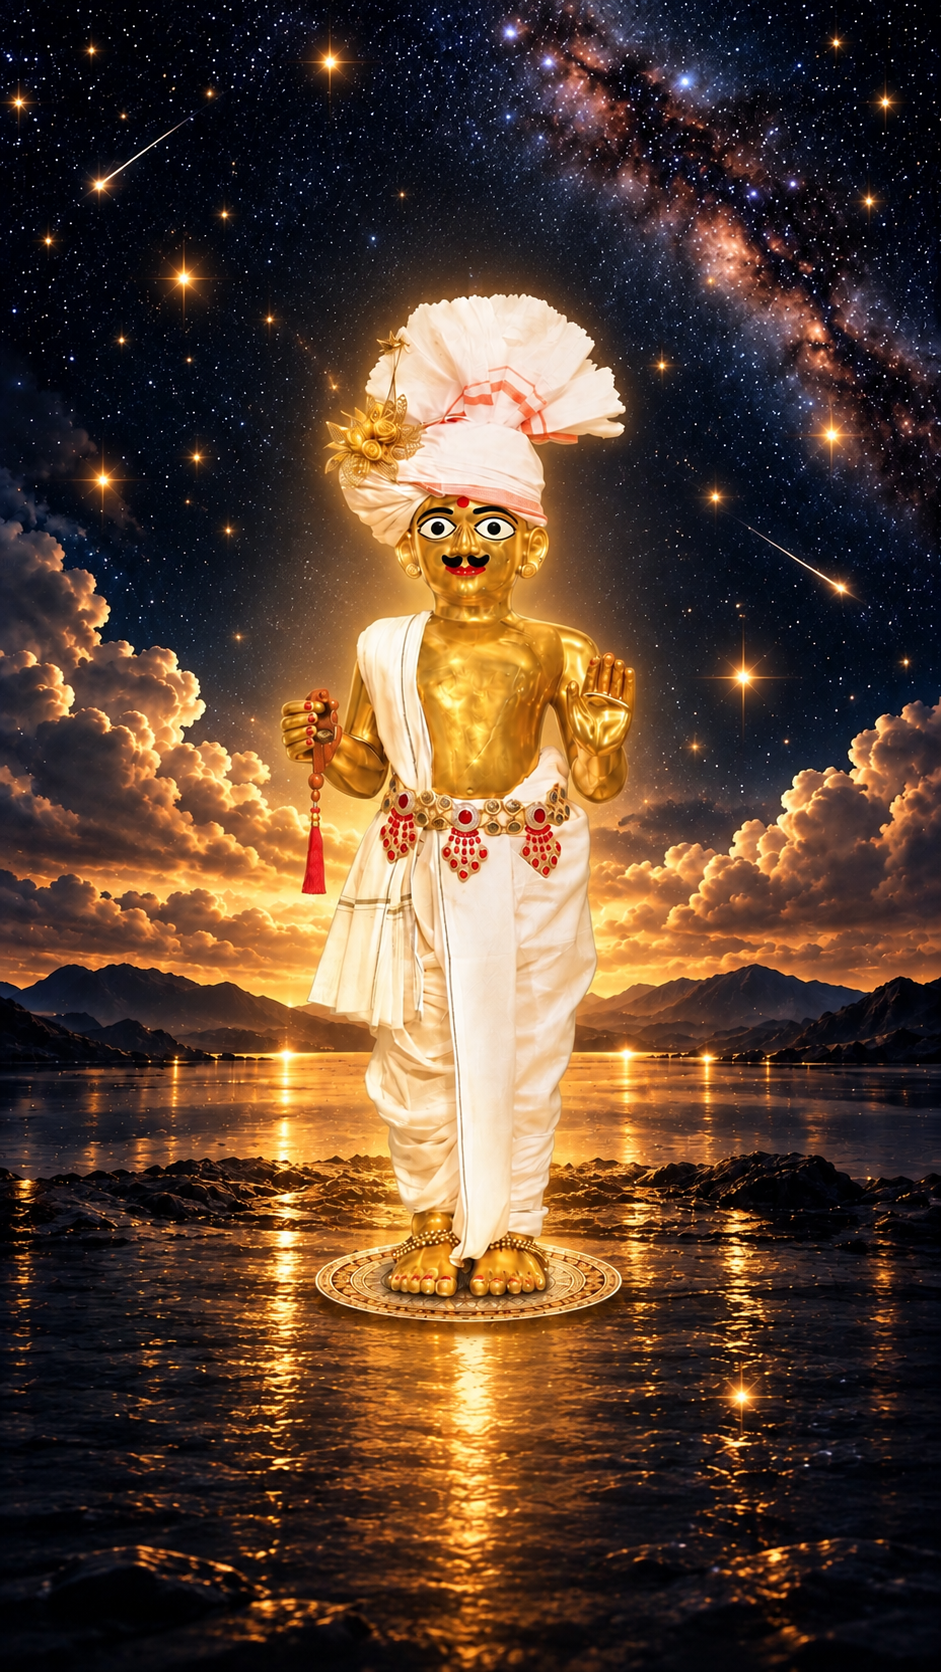
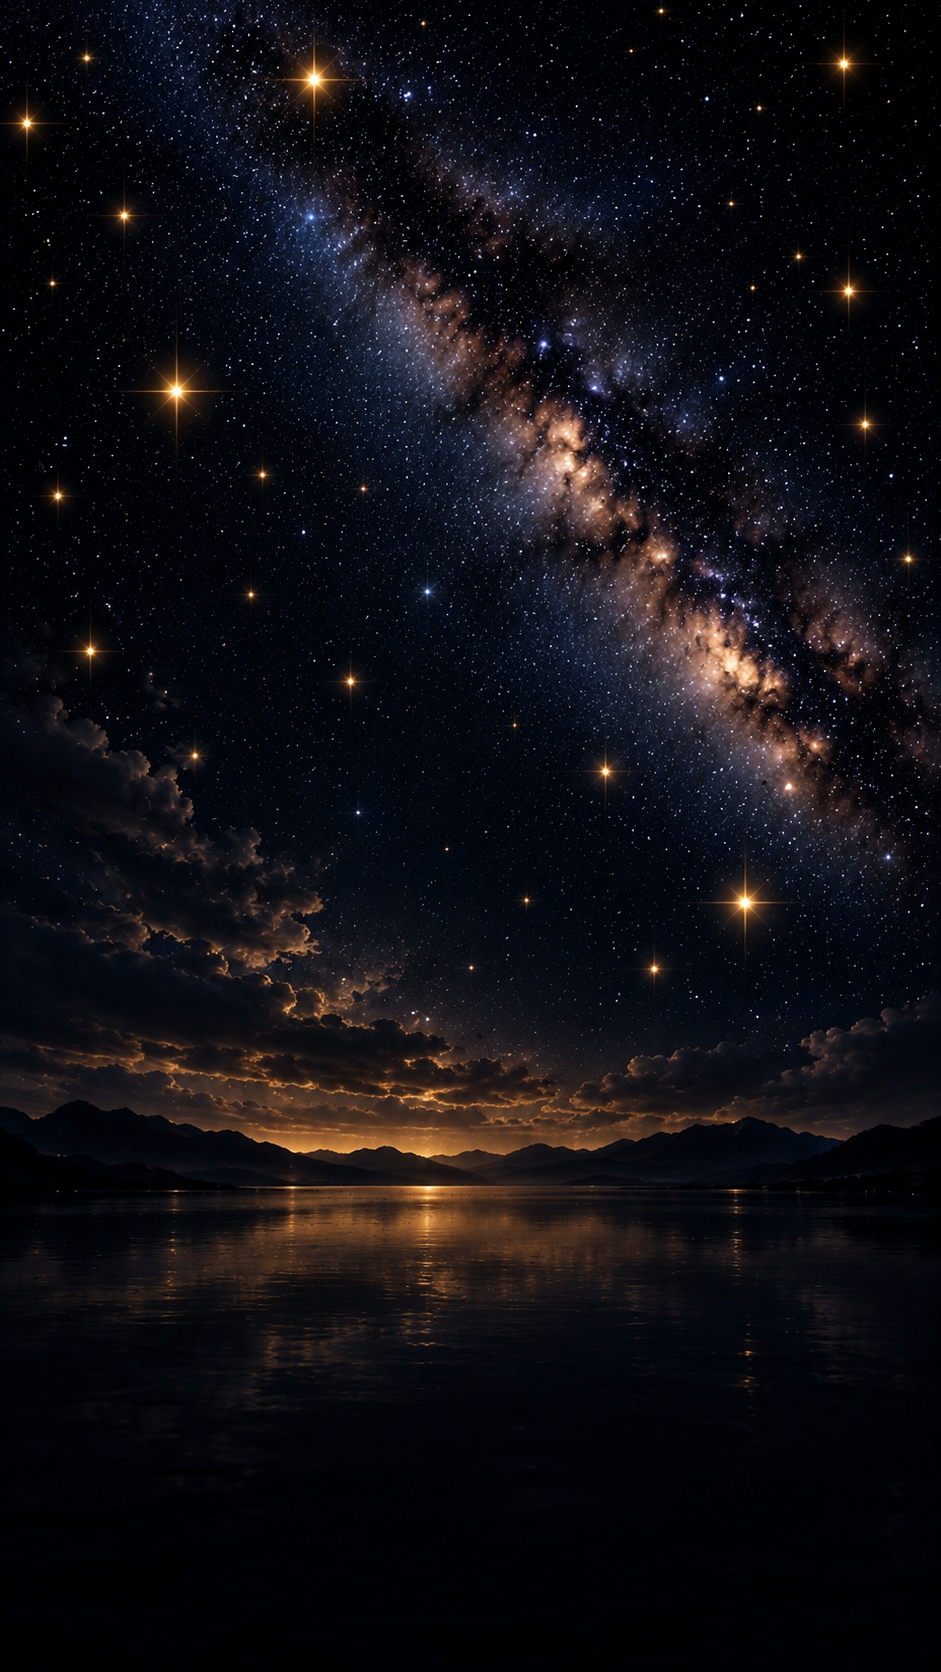
feat(web): refined dark mode — solid layered surfaces instead of glass, hairline edges, frosted bars, white accents; new blurred night-sky background

diff --git a/www/css/styles.css b/www/css/styles.css
@@ -7659,3 +7659,295 @@ html.dark .setup-icon {
 html.dark .setup-logo {
     filter: drop-shadow(0 4px 12px rgba(0, 0, 0, 0.6));
 }
+
+/* ===========================================================
+   Dark, refined: solid layered surfaces instead of glass. One hairline edge everywhere
+   (no specular rims or glows), three surface levels, and frosted (not refracting) bars.
+     page      #000 (home keeps the night-sky image)
+     surface   #161618   cards, sheets, groups
+     raised    #222225   controls on cards: chips, segments, buttons, inputs
+   =========================================================== */
+html.dark {
+    --glass-rim: inset 0 0 0 1px rgba(255, 255, 255, 0.07);
+    --d-surface: rgba(22, 22, 26, 0.8); /* lets the blurred night sky tint through */
+    --d-surface-2: #161618;
+    --d-raised: #222225;
+    --d-selected: #3A3A3E;
+    --d-line: rgba(255, 255, 255, 0.07);
+}
+
+/* Cards and sheets: one solid surface, hairline edge, soft shadow */
+html.dark .chapter-tile,
+html.dark .vachanamrut-tile,
+html.dark .sloka-card,
+html.dark .section-header-card,
+html.dark .fav-card,
+html.dark .search-card,
+html.dark #sloka-content,
+html.dark .glass-card.journey-page-card,
+html.dark #vachanamrut-card.glass-card,
+html.dark .chapter-tile:hover,
+html.dark .vachanamrut-tile:hover,
+html.dark .sloka-card:hover {
+    background: var(--d-surface);
+    border: 1px solid var(--d-line);
+    box-shadow: 0 8px 24px rgba(0, 0, 0, 0.45);
+    -webkit-backdrop-filter: none;
+    backdrop-filter: none;
+}
+
+html.dark .chapter-tile::before,
+html.dark .sloka-card::before {
+    display: none;
+}
+
+/* Groups inside a page card sit one level up */
+html.dark .settings-page-card .settings-group,
+html.dark #journey-screen .journey-progress-card,
+html.dark #journey-screen .journey-streak-card,
+html.dark #journey-screen .journey-chip,
+html.dark #journey-screen .journey-milestones,
+html.dark #journey-screen .journey-map-cell,
+html.dark #journey-screen .journey-reset-link,
+html.dark #journey-screen .fav-card,
+html.dark #journey-screen .my-note,
+html.dark .search-card .search-result,
+html.dark .search-glossary-card,
+html.dark .fact-row,
+html.dark .facts-xref,
+html.dark .facts-glossary-card,
+html.dark .word-meaning-box,
+html.dark .setup-option,
+html.dark .setup-preview {
+    background: var(--d-raised);
+    border: none;
+    box-shadow: none;
+    -webkit-backdrop-filter: none;
+    backdrop-filter: none;
+}
+
+html.dark .glass-card.journey-page-card {
+    background: rgba(12, 12, 13, 0.92);
+}
+
+/* Segmented controls and pills: a raised track, the chosen option a lighter chip */
+html.dark .hub-tabs,
+html.dark .settings-page-card .settings-segmented,
+html.dark .search-header .search-scope,
+html.dark .header-lang-switch {
+    background: var(--d-raised);
+    border: none;
+    box-shadow: none;
+    -webkit-backdrop-filter: none;
+    backdrop-filter: none;
+}
+
+html.dark .hub-tab.active,
+html.dark .search-header .search-scope-btn.active,
+html.dark .header-lang-switch .lang-btn.active,
+html.dark[data-appearance] body.gujarati #settings-lang-guj,
+html.dark[data-appearance] body.english #settings-lang-eng,
+html.dark:not(.text-large) #settings-text-default,
+html.dark.text-large #settings-text-large,
+html.dark body:not(.ui-english) #settings-ui-auto,
+html.dark body.ui-english #settings-ui-eng,
+html.dark[data-appearance="system"] #settings-appearance-system,
+html.dark[data-appearance="dark"] #settings-appearance-dark,
+html.dark .setup-choice-btn.active {
+    background: var(--d-selected);
+    color: #FFFFFF;
+    box-shadow: 0 1px 3px rgba(0, 0, 0, 0.4);
+}
+
+html.dark .header-lang-switch .lang-btn.active {
+    color: #FF6B72;
+}
+
+/* Small buttons and inputs */
+html.dark #back-btn,
+html.dark .toolbar-btn,
+html.dark .facts-pill,
+html.dark .font-size-display,
+html.dark .sp-bookmark-btn,
+html.dark .facts-modal-close,
+html.dark .word-meaning-pill,
+html.dark .word-meaning-view-all-btn,
+html.dark .facts-questioner-chip,
+html.dark .search-chip,
+html.dark .search-header .search-input-wrap,
+html.dark .note-sheet-text,
+html.dark .note-sheet-btn:not(.primary),
+html.dark .reminder-time,
+html.dark .setup-choice-btn,
+html.dark .setup-secondary,
+html.dark .chapter-count,
+html.dark .section-count {
+    background: var(--d-raised);
+    border: none;
+    box-shadow: none;
+    -webkit-backdrop-filter: none;
+    backdrop-filter: none;
+}
+
+html.dark .settings-page-card .settings-group .reminder-time,
+html.dark .fact-row .facts-questioner-chip {
+    background: var(--d-selected);
+}
+
+/* Sheets */
+html.dark .facts-modal.glass-card:not(.theme-sepia),
+html.dark .note-sheet,
+html.dark .setup-sheet {
+    background: #161618;
+    box-shadow: 0 -12px 40px rgba(0, 0, 0, 0.6);
+}
+
+html.dark .facts-modal::before {
+    background: rgba(255, 255, 255, 0.25);
+}
+
+/* Header and floating bars: frosted near-black, no refraction or rims */
+html.dark header#header,
+html.dark body > header,
+html.dark .search-header {
+    background: #000000;
+    box-shadow: 0 1px 0 rgba(255, 255, 255, 0.07);
+}
+
+html.dark #footer.app-tab-bar,
+html.dark .reading-footer,
+html.dark .find-bar,
+html.dark .audio-player-container.state-bar,
+html.dark .audio-fab-view {
+    background: rgba(22, 22, 24, 0.86);
+    -webkit-backdrop-filter: blur(20px) saturate(1.3);
+    backdrop-filter: blur(20px) saturate(1.3);
+    box-shadow: inset 0 0 0 1px rgba(255, 255, 255, 0.08), 0 10px 30px rgba(0, 0, 0, 0.55);
+}
+
+html.dark .tab-bar-rim-light {
+    stroke: rgba(255, 255, 255, 0.08);
+    stroke-width: 1;
+}
+
+html.dark .tab-bar-rim-edge {
+    stroke: none;
+}
+
+html.dark .footer-search-btn,
+html.dark .reading-footer .nav-btn,
+html.dark .audio-player-container .audio-bar-btn,
+html.dark .audio-player-container .audio-bar-btn.play-btn {
+    background: var(--d-raised);
+    box-shadow: none;
+}
+
+html.dark .audio-player-container .audio-bar-btn.play-btn {
+    background: var(--d-selected);
+}
+
+html.dark .tab-bar-drop {
+    background: var(--d-raised);
+    box-shadow: none;
+}
+
+html.dark .footer-search-btn.ripple::after {
+    animation-name: lens-ripple-dark;
+}
+
+@keyframes lens-ripple-dark {
+    0% { opacity: 0.9; box-shadow: 0 0 0 0 rgba(255, 255, 255, 0.35); }
+    100% { opacity: 0; box-shadow: 0 0 0 6px rgba(255, 255, 255, 0); }
+}
+
+/* Separators and secondary text */
+html.dark .settings-page-card .settings-group > * + .setting-item::before {
+    background-color: var(--d-line);
+}
+
+html.dark .facts-modal.glass-card .facts-modal-header {
+    background: transparent;
+    border-bottom: 1px solid var(--d-line);
+}
+
+/* Big background numbers: quieter */
+html.dark .chapter-tile::after,
+html.dark .vachanamrut-tile::after,
+html.dark .sloka-card::after {
+    background: linear-gradient(180deg, rgba(255, 255, 255, 0.13) 10%, rgba(255, 255, 255, 0.01) 88%);
+    -webkit-background-clip: text;
+    background-clip: text;
+}
+
+html.dark .settings-page-card .settings-group .settings-segmented {
+    background: rgba(0, 0, 0, 0.4);
+}
+
+/* Dark app: the reading card's dark theme uses white accents instead of gold */
+html.dark #vachanamrut-card.theme-dark h3,
+html.dark #vachanamrut-card.theme-dark .v-number,
+html.dark #vachanamrut-card.theme-dark .v-title-text,
+html.dark #vachanamrut-card.theme-dark .icon-btn,
+html.dark #vachanamrut-card.theme-dark #vachanamrut-footer-text,
+html.dark #vachanamrut-card.theme-dark .toolbar-btn,
+html.dark #vachanamrut-card.theme-dark .bookmark-pill {
+    color: #FFFFFF !important;
+}
+
+html.dark #vachanamrut-card.theme-dark #vachanamrut-text {
+    color: #E8E8EA;
+}
+
+html.dark #vachanamrut-card.theme-dark #vachanamrut-setting {
+    background: var(--d-raised);
+    border-left-color: rgba(255, 255, 255, 0.3);
+    color: #C7C7CC;
+}
+
+html.dark #vachanamrut-card.theme-dark .font-controls,
+html.dark #vachanamrut-card.theme-dark .theme-controls,
+html.dark #vachanamrut-card.theme-dark .bookmark-pill {
+    background: var(--d-raised);
+    border-color: transparent;
+}
+
+html.dark #vachanamrut-card.theme-dark .bookmark-pill.active {
+    background: #FFFFFF;
+    color: #000000 !important;
+}
+
+html.dark #vachanamrut-card.theme-dark .glossary-word-link {
+    border-bottom-color: rgba(255, 255, 255, 0.45);
+}
+
+/* Muted text in dark: neutral grey instead of the light theme's purple */
+html.dark .facts-modal-subtitle,
+html.dark .fact-label,
+html.dark .fact-value .fact-secondary,
+html.dark .author-dates,
+html.dark .about-vachanamrut-source,
+html.dark .facts-xref-delta,
+html.dark .facts-empty,
+html.dark .facts-glossary-meaning,
+html.dark .word-meaning-secondary-term,
+html.dark .journey-ring-sub,
+html.dark .journey-ring-date,
+html.dark .search-hint,
+html.dark .search-status {
+    color: var(--color-text-muted) !important;
+}
+
+html.dark .facts-glossary-meaning {
+    color: #C7C7CC !important;
+}
+
+/* Facts / word sheet header in the dark app: white, not the reading theme's gold */
+html.dark .facts-modal .facts-modal-title,
+html.dark .facts-modal .facts-modal-close {
+    color: #FFFFFF;
+}
+
+html.dark .facts-modal .facts-modal-close {
+    background: var(--d-raised);
+    border-color: transparent;
+}

diff --git a/www/index.html b/www/index.html
@@ -96,7 +96,7 @@
     <link rel="manifest" href="manifest.json">
     <link rel="preload" as="image" href="images/logo-vachanamrut.png">
     <link rel="preload" as="image" href="images/yellow-bg.webp">
-    <link rel="stylesheet" href="css/styles.css?v=77">
+    <link rel="stylesheet" href="css/styles.css?v=82">
     <meta name="theme-color" content="#E6A623">
     <script src="js/appearance.js?v=1"></script>
     <meta name="apple-mobile-web-app-status-bar-style" content="black-translucent">

diff --git a/www/sw.js b/www/sw.js
@@ -1,4 +1,4 @@
-const CACHE_NAME = '1.74.0';
+const CACHE_NAME = '1.76.0';
 
 // ---- App shell (cached on install — blocks SW activation) -------------------
 const APP_SHELL = [
